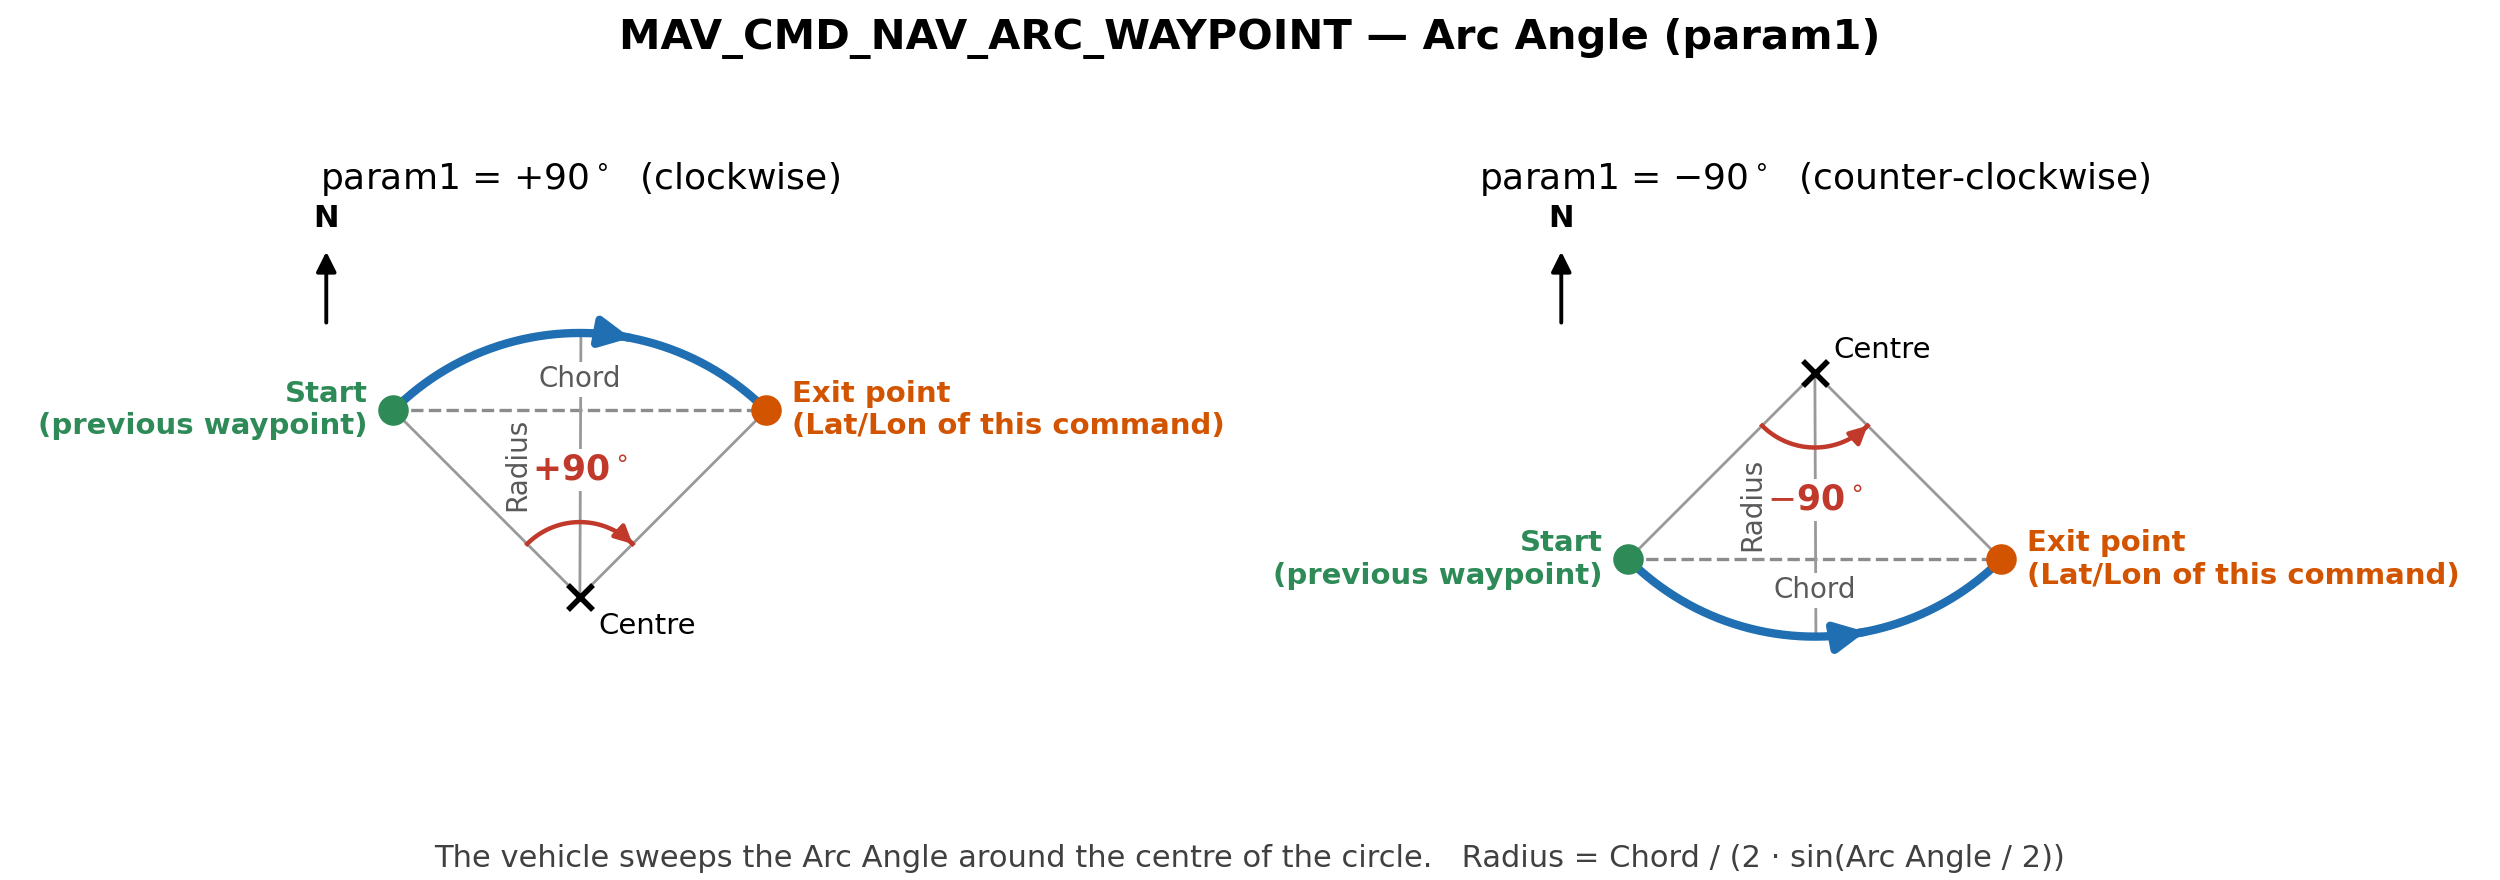
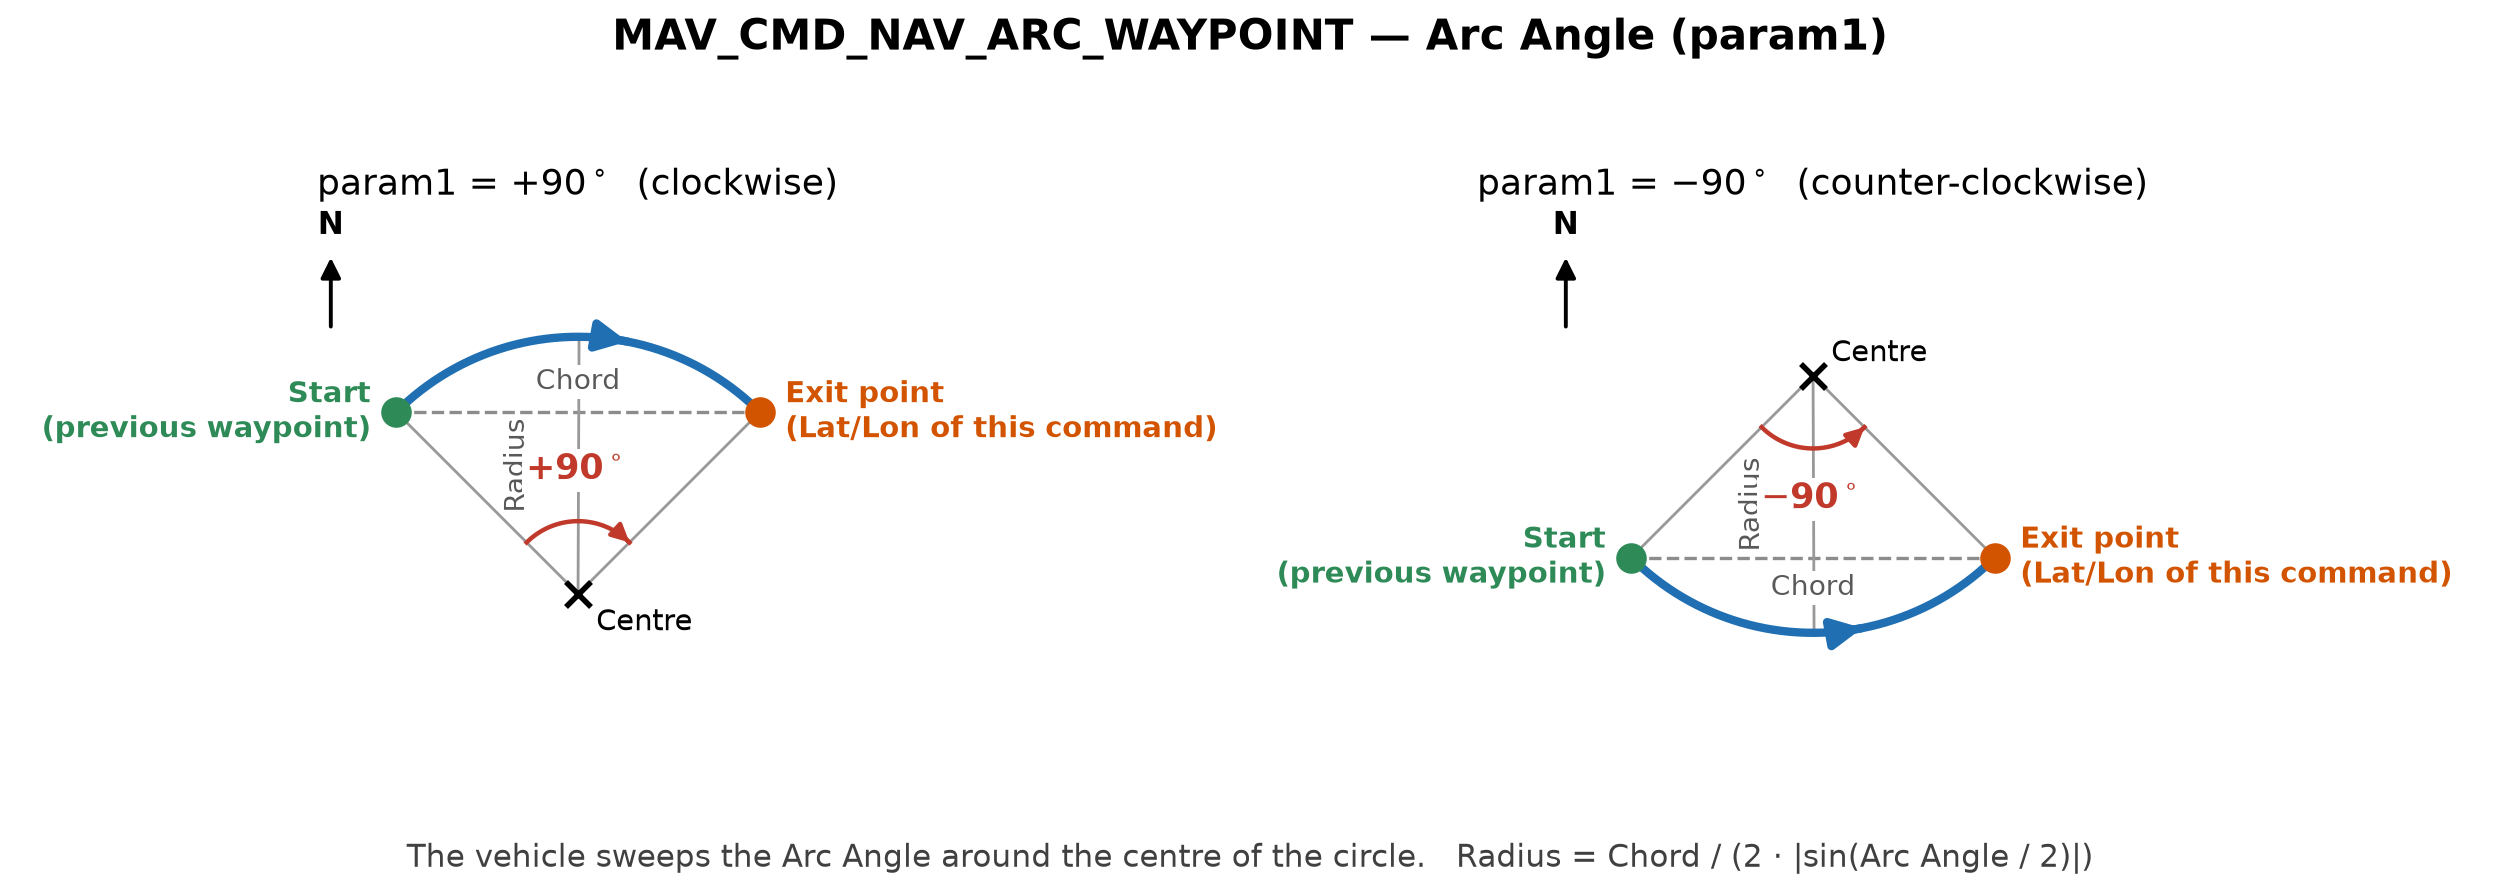
common: fix arc radius formula and angle range

diff --git a/common/source/docs/common-mavlink-mission-command-messages-mav_cmd.rst b/common/source/docs/common-mavlink-mission-command-messages-mav_cmd.rst
@@ -1872,7 +1872,7 @@ The command's location (lat, lon, alt) is the exit point of the arc.
    <tr>
    <td><strong>param1</strong></td>
    <td>Arc Angle</td>
-   <td>Arc angle in degrees. Positive values are clockwise arcs, negative values are counter-clockwise arcs.</td>
+   <td>Arc angle in whole degrees. Positive values are clockwise arcs, negative values are counter-clockwise arcs.</td>
    </tr>
    <tr style="color: #c0c0c0">
    <td><strong>param2</strong></td>
@@ -1913,8 +1913,12 @@ The command's location (lat, lon, alt) is the exit point of the arc.
 
 The arc's radius is determined by the arc angle and the straight line
 distance (the chord) between the previous destination and the exit
-point: ``radius = chord / (2 * sin(arc angle / 2))``. The practical
-arc angle range is -360 degrees to +360 degrees.
+point: ``radius = chord / (2 * abs(sin(arc angle / 2)))``. The arc
+angle range is -359 degrees to +359 degrees; an angle of 0 gives a
+straight leg to the exit point. The chord starts at the previous
+destination if that leg was completed; if the arc is the first leg
+or the previous leg was interrupted, it starts from the vehicle's
+stopping point, which changes the radius.
 
 If the mission is interrupted part way along an arc (for example by
 changing out of AUTO mode) and is then resumed, the vehicle rejoins
